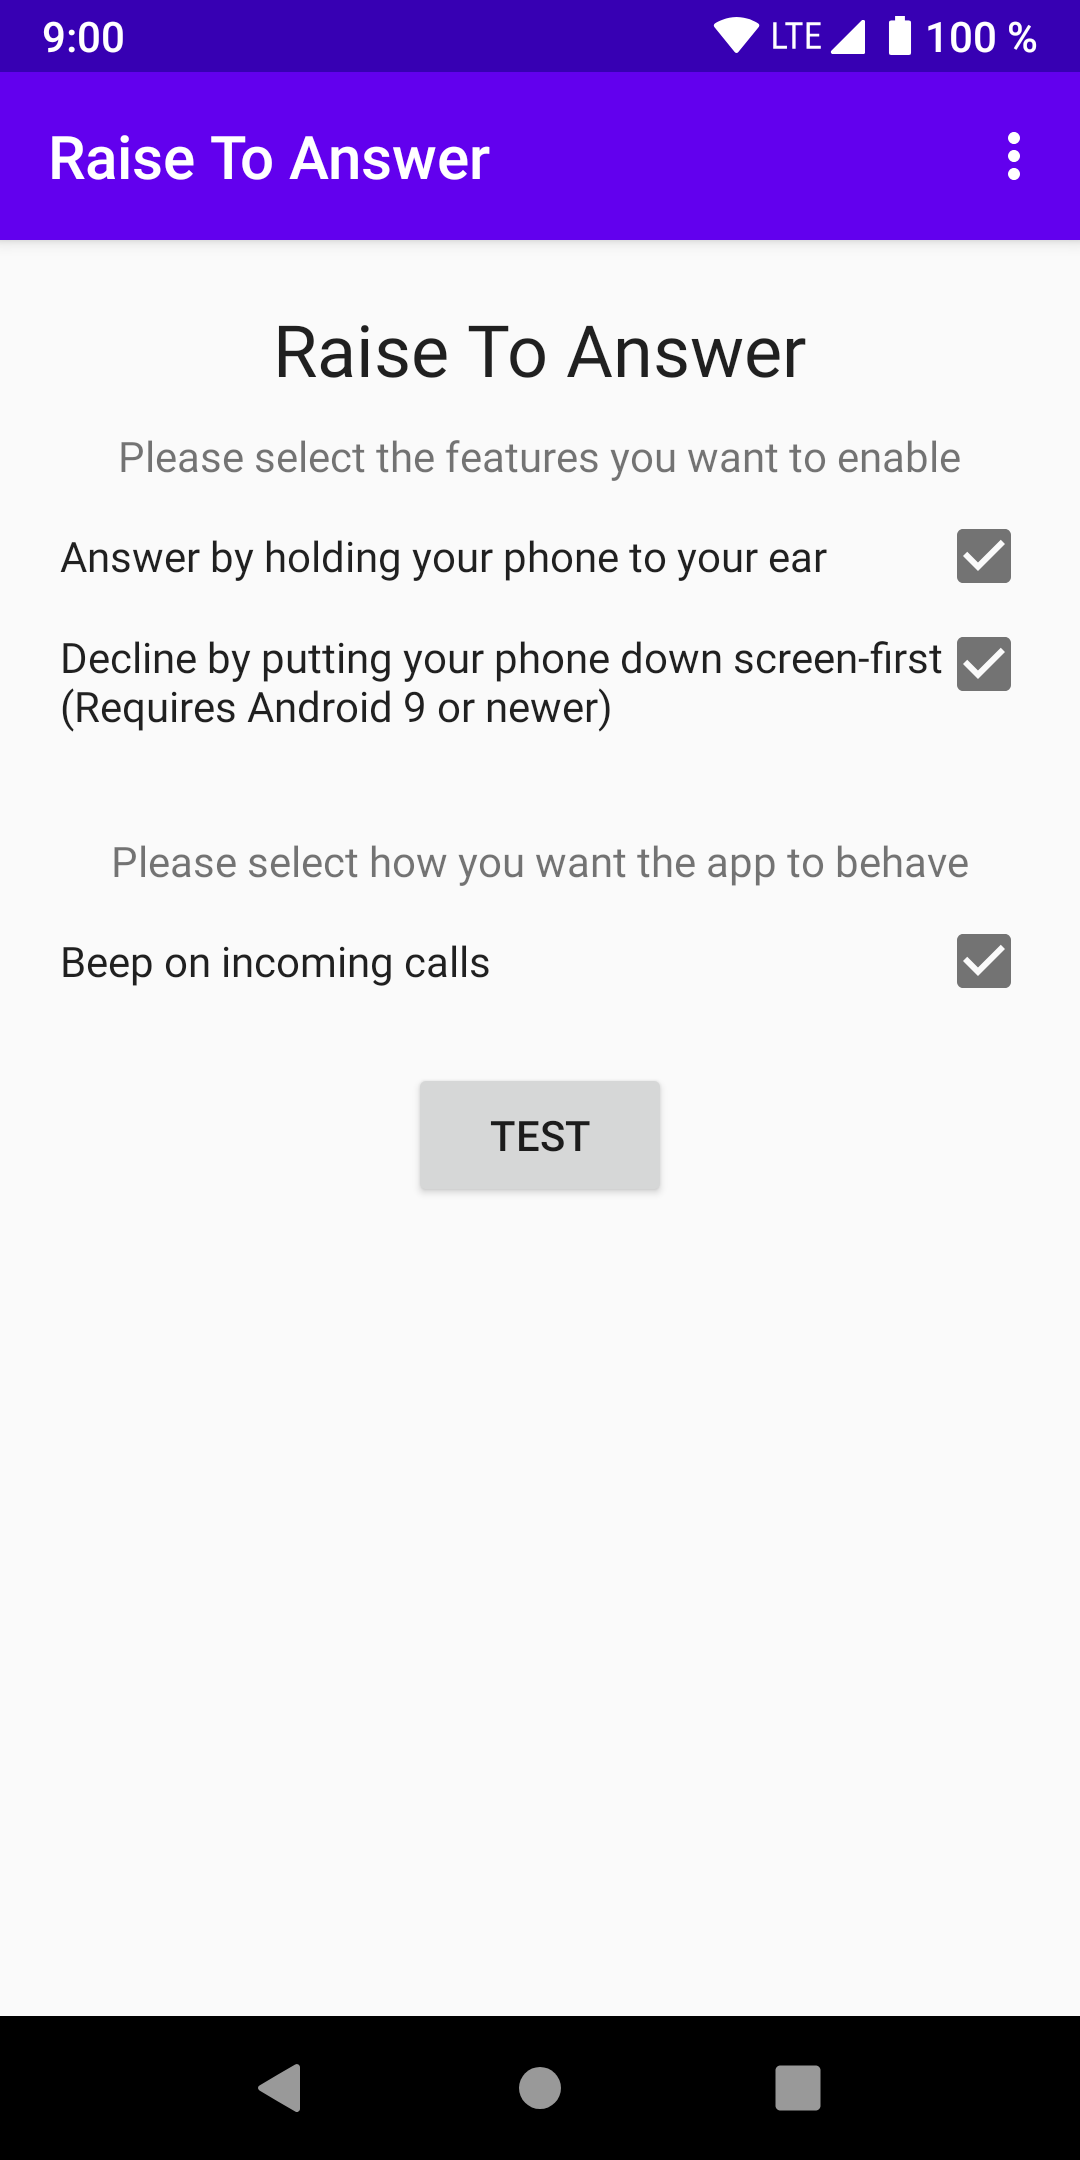
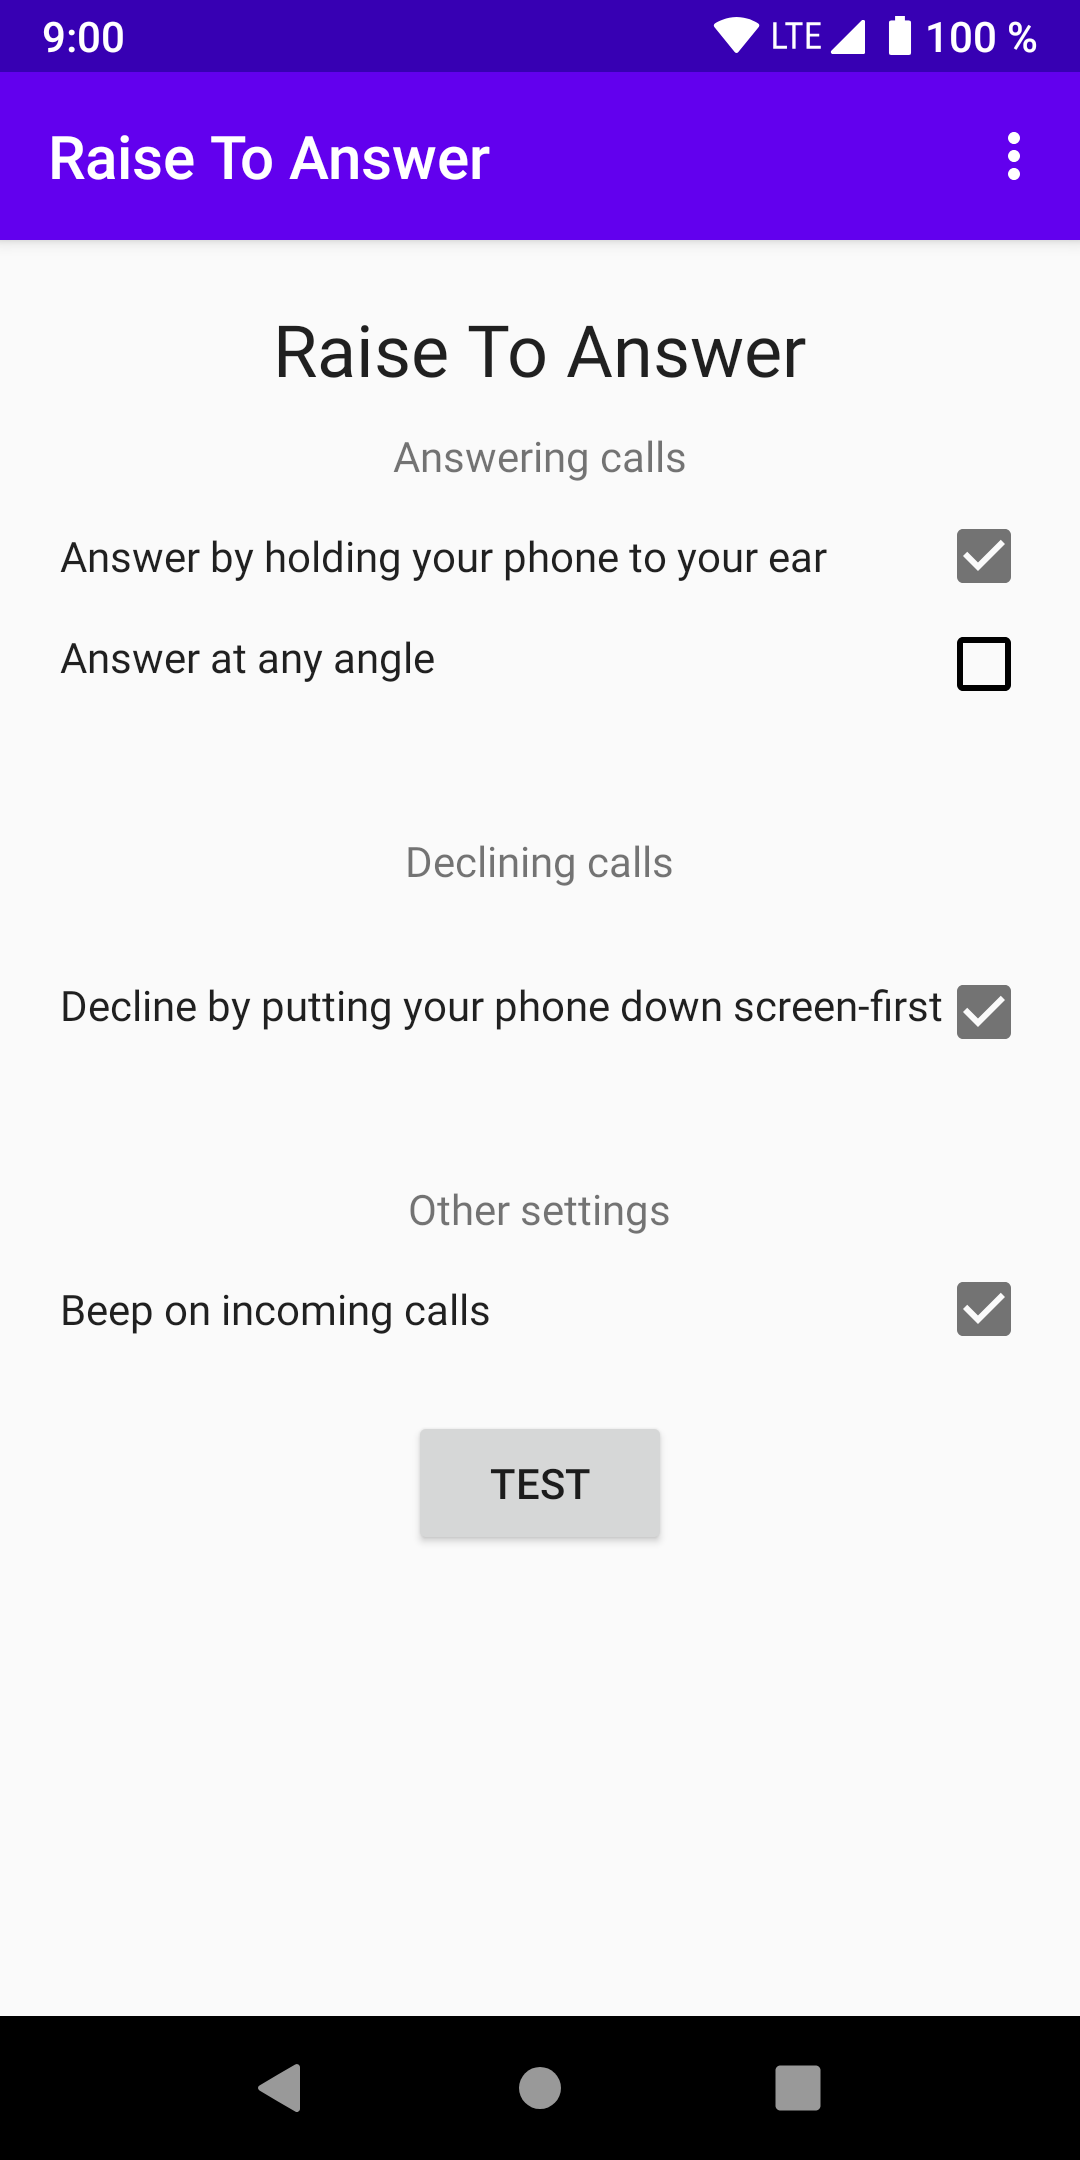
Fix answer at all angles being unset

diff --git a/app/src/main/java/me/hackerchick/raisetoanswer/MainActivity.kt b/app/src/main/java/me/hackerchick/raisetoanswer/MainActivity.kt
@@ -60,7 +60,7 @@ class MainActivity : AppCompatActivity() {
         val beepBehaviour: CheckedTextView = findViewById(R.id.behaviour_beep)
 
         answerFeature.setOnClickListener { _->
-            setAnswerFeature(!answerFeature.isChecked)
+            setAnswerFeature(!answerFeature.isChecked, true)
         }
 
         answerAllAnglesFeature.setOnClickListener {
@@ -75,7 +75,7 @@ class MainActivity : AppCompatActivity() {
             setBeepBehaviour(!beepBehaviour.isChecked)
         }
 
-        setAnswerFeature(Util.answerFeatureEnabled(applicationContext))
+        setAnswerFeature(Util.answerFeatureEnabled(applicationContext), false)
         setAnswerAllAnglesFeatureIfSupported(Util.answerAllAnglesFeatureEnabled(applicationContext))
         setDeclineFeatureIfSupported(Util.declineFeatureEnabled(applicationContext))
 
@@ -113,13 +113,15 @@ class MainActivity : AppCompatActivity() {
         }
     }
 
-    private fun setAnswerFeature(value: Boolean) {
+    private fun setAnswerFeature(value: Boolean, propagate: Boolean) {
         val answerFeature: CheckedTextView = findViewById(R.id.feature_answer)
         answerFeature.isChecked = value
 
         Util.setAnswerFeatureEnabled(applicationContext, value)
-        
-        setAnswerAllAnglesFeatureIfSupported(false)
+
+        if (propagate) {
+            setAnswerAllAnglesFeatureIfSupported(false)
+        }
     }
 
     private fun setAnswerAllAnglesFeatureIfSupported(value: Boolean) {
